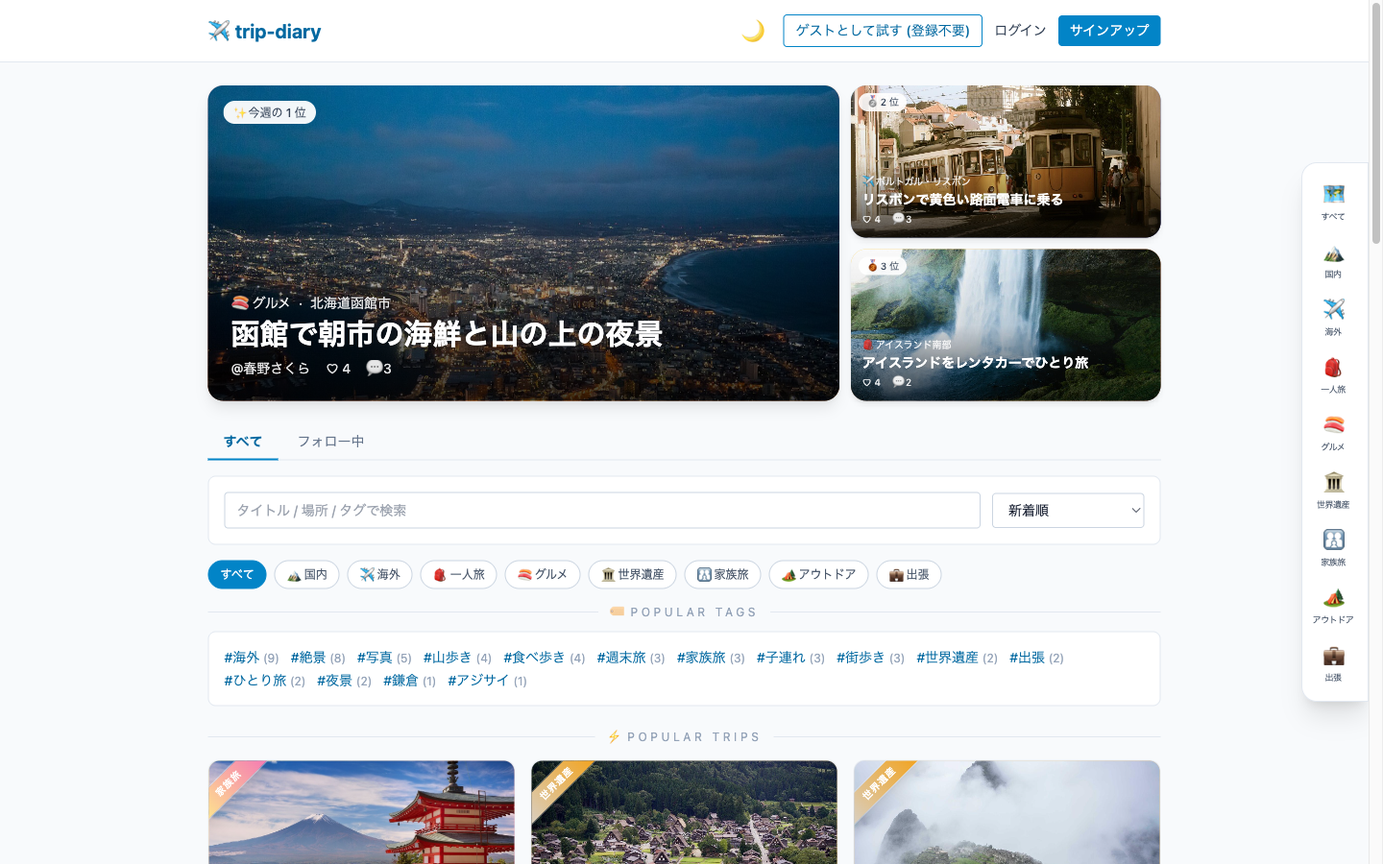
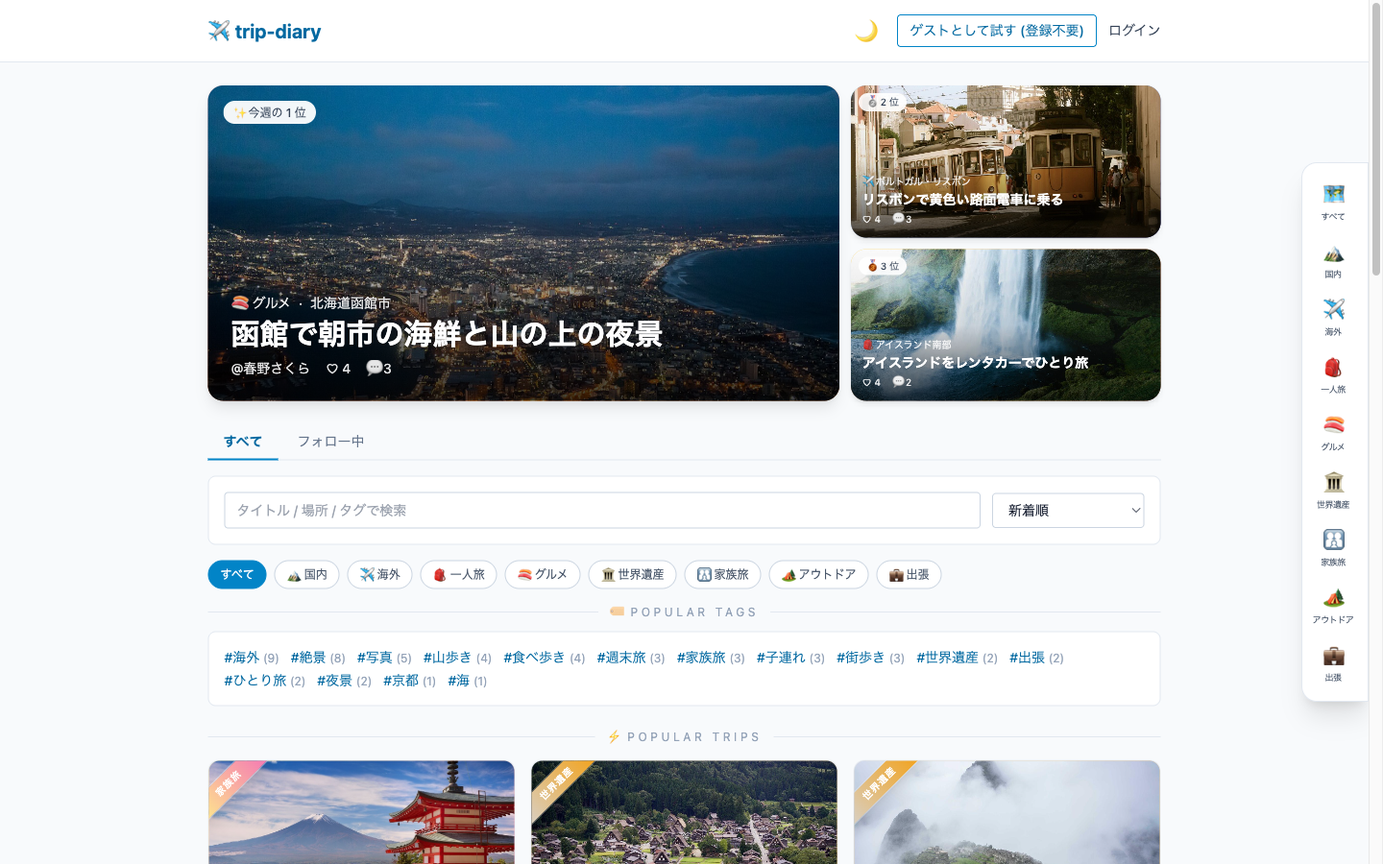
docs: 公開した構成を設計書・README・CLAUDE.md に反映する (#171)
* docs: 計画書に帯域・見回りの間隔・実測を書き、完了判定を埋める

- §8 に Render の帯域の上限と止まる条件、見回りの間隔 (#165) を書いた
- §8-1 に死活監視の定期実行と稼働時間の実測を書いた
- §10 に帯域と稼働時間の実測を足した
- §11 の残りの項目にチェックを入れ、依存の勧告の扱いを更新した

Refs #155

* docs: インフラ構成に帯域・見回りの間隔・環境変数の入れ方を書く

- §0 に Render の帯域の上限と、Solid Queue の見回りの間隔 (#165) を足した
- 環境変数の入れ方と、2026-10-01 に値が壊れてデプロイが失敗した件を書いた
- §0-4 の 0 円の根拠に、帯域を使い切ると止まることを足した

Refs #155

* docs: ログ設計書に帯域・緊急停止・demo:reset の手順を書く

- §7-1 に Uptime の実測を、§7-2・§7-3 に Render の帯域の見方を足した
- §7-4 に帯域が増えすぎたときと、公開をすぐ止めたいとき (Suspend・Rollback) を足した
- §7-6 に公開環境で demo:reset を流すときの注意を書いた

Refs #155

* docs: 要件定義書を公開した構成に合わせ、過去の記録と書き分ける

- §1-5 にデモ URL と月額を書き、§1-5-2 の CI の書き方を今の運用に合わせた
- §3-3・§4-3・§4-4・§5・§10 の AWS と S3 の記述を、2026-05 の記録と
  2026-10〜 の公開環境に書き分けた
- §9 に R-06 (無料枠の上限) を足した

Refs #155

* docs: 機能一覧に公開環境の後継の機能を足す

- F-STORAGE-01 (Cloudinary)・F-DEPLOY-02 (Render と TiDB Cloud Starter)・
  F-UPTIME-01 (死活監視) を足した
- F-S3-01 と F-DEPLOY-01 に後継の番号を書いた

Refs #155

* docs: テスト計画書に公開環境の受け入れ確認と今の件数を書く

- 公開環境への移行で足したテストを反映し、件数を更新した (Minitest 363・Vitest 39)
- 残課題 8 (公開環境での検証) を済みにし、受け入れ確認の結果と
  TiDB 固有の差の見つかり方を書いた

Refs #155

* docs: セキュリティ自己監査に公開環境の点と依存の勧告の手順を書く

- E-M1・E-M2 の見出しを、§5 の表と同じ実装済に直した
- E-H3 に公開環境のチェックリスト (インフラ構成 §0-5) を足した
- 公開環境の運用で見つけた点 (F-PUB-OPS) と、依存パッケージの
  既知の脆弱性への対応の手順 (E-DEP) を足した

Refs #155

* docs: README を公開した構成に合わせる

- デモ URL・インフラの節・テストの件数とカバレッジを今の値にした
- ドキュメントの表・背景・今後の予定を、公開したあとの内容にした

Refs #155

* docs: トップと旅行の詳細のスクリーンショットを公開環境で撮り直す

手元で撮った画像には、公開環境では出さないサインアップのボタンが
写っていた。公開環境の画面に差し替えた。
[…]

Changed region(s): [[0.5312, 0.0, 0.8438, 0.0622], [0.2812, 0.7778, 0.375, 0.8089], [0.9688, 0.28, 1.0, 0.3111]]

diff --git a/docs/ログ・監視・障害対応設計書.md b/docs/ログ・監視・障害対応設計書.md
@@ -8,6 +8,7 @@
 | 0.2 | 2026-09-28 | hideharu-AI (Claude Code 補助) | §1-3 想定読者・監視ツールの判断理由・付録 A の説明を、公開リポジトリの閲覧者向けに直した (#128) |
 | 0.3 | 2026-09-28 | hideharu-AI (Claude Code 補助) | 「本 PR」を実際の PR 番号 (PR #6) にし、最初に出てくる sns-board に「非公開」の断りを付けた (#137) |
 | 0.4 | 2026-10-02 | hideharu-AI (Claude Code 補助) | §7 に公開環境 (Render・TiDB Cloud Starter・Cloudinary) の監視と運用・障害のときの手順を足した。Phase 対応マトリクスに公開デモの行を足し、Phase 3 の記述が過去の AWS 構成の計画であることを明記した (#155) |
+| 0.5 | 2026-10-05 | hideharu-AI (Claude Code 補助) | §7 に Uptime の実測・Render の帯域の見方・帯域が増えすぎたときと公開をすぐ止めたいときの手順・公開環境で `demo:reset` を流すときの注意を足した (#155) |
 
 ---
 
@@ -386,6 +387,7 @@ SLO 違反時の対応は §4 障害対応フローへ。
 | 3 | 月 1 回、手で見る | §7-3 の表 | なし | 月の初め |
 
 - Uptime はベストエフォートとして扱う。GitHub の定期実行は混むと遅れ、負荷が高いと一部のジョブが落とされる (公式ドキュメント: "High load times include the start of every hour." "some queued jobs may be dropped.")。実測の回数は [公開デモ化計画書.md](./公開デモ化計画書.md) §8-1 に書く
+- 実測 (2026-10-02〜10-04 UTC) は 1 日 4〜5 回・失敗 0 件・間隔 3〜7 時間。壊れてから気づくまで、最大 7 時間ほどかかりうる
 - 判定: 1 日 (UTC) に 2 回以上動き、失敗が 0 件なら正常。予定から数時間遅れてもよい。0 回の日があれば、Actions の画面でワークフローが止まっていないか (60 日ルール・手で無効にしていないか) を見る
 - Render が止まっていれば Uptime が起こす (1 回 90 秒まで待ち、4 回まで繰り返す)。起こしたままにするためのものではない
 - TiDB には無料枠の知らせが無い (Spending Limit が $0 だと予算が作られない)。使い切ると新しい接続が拒否されるので、Uptime の trips のステップが失敗して気づく (health は DB を見ない)
@@ -398,7 +400,7 @@ SLO 違反時の対応は §4 障害対応フローへ。
 | ビルドとデプロイ | Render の Events と、デプロイごとのログ | ビルドや起動が失敗しても、前の版が動き続ける |
 | CI・E2E・Uptime | GitHub Actions | 結果はその commit のチェックにも付く (§7-5) |
 | メモリと CPU | Free では見られない (Application Metrics は有料のプランだけ) | 上限は 512 MB・0.15 CPU。手元で同じイメージを 512 MB・0.1 CPU で起動すると、起動 80 秒・202 MiB だった |
-| 外向きの通信量 | Render の Metrics (Outbound) | Free でも見られる |
+| 外向きの通信量 | Render の Metrics (Outbound) と、Billing の Monthly Included Usage (Included Bandwidth) | Free でも見られる。帯域は月 5 GB。Billing の集計は遅れて反映される |
 
 ### §7-3 月 1 回見るもの
 
@@ -406,7 +408,7 @@ SLO 違反時の対応は §4 障害対応フローへ。
 |---|---|---|
 | TiDB の使用量 | My TiDB → trip-diary-prod → Overview の Capacity used this month | 無料枠は月 5,000 万 RU・5 GiB。Spending Limit は $0 のまま変えない |
 | Cloudinary の使用量 | 管理画面の Usage | 月 25 クレジット。使用量の警告の設定と、メールの届く先も確かめる |
-| Render の稼働時間とビルドの分数 | Render の Billing | 月 750 時間 (ワークスペース単位)・ビルドは月 500 分 |
+| Render の稼働時間・ビルドの分数・帯域 | Render の Billing (Monthly Included Usage) | 月 750 時間 (ワークスペース単位)・ビルドは月 500 分・帯域は月 5 GB。2026-10 の実測は 1 日約 8 時間・帯域は 1 日約 22 MB。帯域が 1 日 100 MB を超える勢いなら §7-4 |
 | 定期実行が止まっていないか | GitHub の Actions (Uptime と Performance) | public リポジトリは 60 日間活動が無いと定期実行が止まる。止まっていれば画面から有効にし直す。空の commit で延命しない |
 | 既知の脆弱性 | GitHub の Security (Dependabot) | High と critical が無いこと |
 
@@ -421,6 +423,8 @@ SLO 違反時の対応は §4 障害対応フローへ。
 | チケットの PDF が開けない | Cloudinary の Settings → Security | 無料アカウントは PDF の配信が既定で止まっている。許可が外れていないかを見る |
 | ゲストで入れない | Render の Logs の guest_login | 回数制限は 10 分に 5 回で、記録はプロセスの中にある (Render が再起動すると数え直し)。後片付けで例外が出ていれば、孤立レコードを数えて原因を探す (#160 と同じ型) |
 | 秘密の値を失くした・漏れた | それぞれの管理画面 | `SECRET_KEY_BASE` と `JWT_SECRET` は作り直して Render に入れる (全員がログアウトになる)。TiDB のパスワードと Cloudinary のキーは、それぞれの画面で作り直してから Render の値を替える |
+| 帯域が増えすぎる (Billing の Included Bandwidth が 1 日 100 MB を超える勢い) | Billing の内訳 (Service-Initiated と HTTP Responses)・Metrics の Outbound | Service-Initiated が多いなら、アプリから外への通信 (DB への見回りなど) を疑う。2026-10-04 は Solid Queue の見回りが原因で、間隔を広げて 1 日約 170 MB から約 22 MB にした (#165)。手元で本番用イメージを動かし、何もしない 5 分間の送信量を設定ごとに比べて切り分ける。支払い方法が無いので、使い切ると月末まで止まる。外への通信が異常に多い Free のサービスは Render に止められることもあり、戻すには有料のプランに移る必要がある (公式ドキュメント) |
+| 公開をすぐ止めたい (漏れ・不正な使われ方・帯域の急増) | Render のサービスの画面 | Suspend で止める (訪問者は入れなくなる)。直したら Resume で戻す。受け付けだけを止める Maintenance mode は有料のプランだけ。前の版に戻すだけなら Rollback を使う (Free では直近 2 つ前のデプロイまで。ダッシュボードから戻すと Auto-Deploy が切れるので、直したあとに入れ直す。公式ドキュメント) |
 
 ### §7-5 マージしたのにデプロイされないとき
 
@@ -435,6 +439,11 @@ SLO 違反時の対応は §4 障害対応フローへ。
 - 流す前に、TiDB の許可リストにある手元の IP が、今の IP と同じかを確かめる (家の回線の IP は変わる)
 - 必ず `TZ=UTC` を付ける。`default_timezone` が `:local` のため、Mac (日本時間) からつなぐと 9 時間ずれて読み書きされる。2026-10-01 に `TZ` を付けずに流した `demo:seed` のデータは、画面の日時が 9 時間あとになっている (見た目だけで、動きには影響しない)
 - Render Free には Shell と one-off job が無いので、`demo:seed`・`demo:reset`・調査は手元から流す。手順は [公開デモ化計画書.md](./公開デモ化計画書.md) §6-1
+- 公開環境で `demo:reset` を流すときの注意
+  - デモユーザーを `destroy` するので、デモの旅行に付いたゲストのコメントといいねも一緒に消える
+  - デモの写真 (今は 18 枚) の削除はジョブになって公開環境の DB に入り、Render の中の Solid Queue が実行する。Render が止まっていれば、起きてから Cloudinary から消える (仕組みからの推測で、まだ確かめていない)
+  - 続けて `demo:seed` を流すと、写真を手元から Cloudinary に上げ直す (Cloudinary のクレジットを少し使う)
+  - 流す前と後で、件数と孤立レコードを数え、Cloudinary の件数と合っているかを見る
 - データを消す・変える操作は、本人が承認してから行う。テストデータの後片付けは SQL で直接消さず、`bin/rails runner` のスクリプト経由で行う (`dependent: :destroy` を効かせるため)
 
 ---

diff --git a/docs/セキュリティ自己監査.md b/docs/セキュリティ自己監査.md
@@ -18,6 +18,7 @@
 | 1.2 | 2026-09-30 | hideharu-AI (Claude Code 補助) | §3 に、公開環境の画像の配信 (Cloudinary) の確認結果を追加 (Issue #149) |
 | 1.3 | 2026-10-01 | hideharu-AI (Claude Code 補助) | §3 の F-GUEST-01 の後続の項目だったプロキシの内側での IP 判定 (P0-10) を、対応した内容に書き換えた (Issue #151) |
 | 1.4 | 2026-10-01 | hideharu-AI (Claude Code 補助) | §3 の F-GUEST-01 のプロキシの内側での IP 判定 (P0-10) を、Cloudflare の範囲を信頼する中継に足す方法に書き換えた。先頭を訪問者とみなす判定は、偽ってすり抜けられると分かったため廃止した (Issue #158) |
+| 1.5 | 2026-10-05 | hideharu-AI (Claude Code 補助) | §3 の E-M1・E-M2 の見出しを、§5 の表と同じ「実装済」に直した。E-H3 に今の公開環境のチェックリスト (インフラ構成.md §0-5) を足した。公開環境の運用で見つけた点 (F-PUB-OPS) と、依存パッケージの既知の脆弱性への対応の手順 (E-DEP) を足した (#155) |
 
 ---
 
@@ -102,6 +103,7 @@
 - **PR #8 での対応**:
   - `.env.example` の該当行直上にコメント追加
   - README に本番デプロイ前チェックリスト 4 項目を追加 (2026-09-28 に [インフラ構成.md](./インフラ構成.md) §5-1 へ移した)
+- **公開環境 (2026-10〜)**: Render には `RAILS_ENV` を入れず、イメージの既定 (production) で動かす。デプロイや設定を変える前のチェックリストは [インフラ構成.md](./インフラ構成.md) §0-5
 - **デモデータ (Issue #117)**: 公開環境にも入れるデモデータ (`demo:seed` / `demo:reset`) は、production では `DEMO_SEED_CONFIRM=1` が無いと `DemoSeeder::NotConfirmed` で止まる。`demo:reset` もデモユーザーを消す前に止まる。デモユーザーのパスワードはランダム値を作って捨てるため、誰もログインできない
 
 ### E-H4: 公開 API による他人のメールアドレスの返却 — 🔴 **要修正 (Issue #107 で fix)**
@@ -140,15 +142,32 @@
 - **判断**: 記録のみ。URL は推測できず、知っているのはその画像を見た人 (ゲストの画像なら本人だけ) に限られるため。削除のときに CDN も消すかは、公開後に別の Issue で判断する
 - **無料プランの上限 (2026-09-30 に管理画面で確認)**: 1 ファイル 10 MB。アプリの上限 (写真 5 MB・アバター 2 MB・チケット 10 MB) はこの中に収まり、10 MB ちょうどの PDF を保存・配信できた
 
-### E-M1: login rate limit — ❌ **未実装 (Phase 2 残課題)**
+### F-PUB-OPS: 公開環境の運用で見つけた点 (2026-10) — 🟡 **記録のみ (#155)**
 
-- 現状: rack-attack なし。ブルートフォース耐性ゼロ
-- Phase 2: rack-attack 導入 + Issue 起票 (§5 残課題)
+- **画像の置き場の API キーの役割**: Cloudinary の無料プランで選べる役割は Master Admin と Media Library User の 2 つだけで、公開環境のキーは Master Admin にした。公開環境専用のキーにし、値は Render の画面にだけ置く。漏れたら管理画面で作り直す ([ログ・監視・障害対応設計書.md](./ログ・監視・障害対応設計書.md) §7-4)
+- **ログに訪問者の IP が残る**: Render の Logs (STDOUT) に訪問者の IP が出る。公開リポジトリや Issue に貼らない
+- **ゲストが付けたタグが残る**: ゲストを消しても、ゲストが付けたタグはタグの表に残る (旅行の無いタグを消す処理が無い。2026-10-04 時点で 1 件)。`/api/v1/tags/:name` は、タグがあれば旅行 0 件で `200`、無ければ `404` を返すので、そのタグ名がだれかに使われたことは分かる。旅行の中身や、だれが付けたかは分からない
+- **判断**: いずれも記録のみ。タグの後片付けは、公開後に別の Issue で扱う
 
-### E-M2: JWT blacklist — ❌ **未実装 (Phase 2 残課題)**
+### E-DEP: 依存パッケージの既知の脆弱性 (2026-10) — 🟡 **2 件を理由つきで許可 (#163・#167)**
 
-- 現状: `auth_controller.rb:24-27` logout は cookie 削除のみ
-- Phase 2: `JwtDenylist` テーブル + jti 検証 (Devise-JWT 参考)
+- **手順**: CI の security が新しい勧告で失敗したら、修正版があるかと、公開環境のイメージに入るかを確かめる。修正版があれば上げる。修正版が無く、イメージにも入らないものだけを、`ci.yml` の npm audit の `ALLOW` に勧告の URL で 1 つ足す (Issue → PR)。許可した勧告が audit に出なくなると、CI が警告を出すので、そのときに外す
+- **公開環境のイメージ**: 画面のビルド結果 (`_nuxt` と `index.html`) だけを取り込み、Node の依存は入らない
+- **許可している 2 件 (どちらも high・修正版なし)**
+  - node-forge (GHSA-86w9-cpqp-85rv): nuxt → @nuxt/cli → listhen → node-forge。開発サーバーだけが読み込む (#163・PR #164)
+  - braces (GHSA-vfj7-8cjw-p6xm): @nuxtjs/tailwindcss → tailwindcss → chokidar・micromatch → braces。Tailwind のビルドとファイルの見張りだけが使う (#167・PR #168)
+- **Dependabot alerts**: CI の許可とは別に、画面の alerts は Dismiss しない限り開いたままになる。2 件は同じ理由を書いて Dismiss した (理由は Risk is tolerable to this project)。low の esbuild はそのまま
+
+### E-M1: login rate limit — ✅ **実装済 (PR #36)**
+
+- 当初 (2026-05-17): rack-attack なし。ブルートフォース耐性ゼロ
+- 対応: rack-attack で、login を IP ごとに 1 分 5 回・signup を 1 分 3 回に制限した (PR #36)。公開環境では、ゲストログインも 10 分 5 回に制限し、プロキシの内側でも訪問者の IP で数える (F-GUEST-01 の項)
+
+### E-M2: JWT blacklist — ✅ **実装済 (PR #38)**
+
+- 当初 (2026-05-17): `auth_controller.rb` の logout は cookie 削除のみ
+- 対応: ログアウトのときにトークンの `jti` を `revoked_jtis` に記録し、以後の認証で拒否する (PR #38)
+- 残る点 (2026-10・記録のみ): 期限切れの記録は、次にだれかがログアウトしたときにだけ消える。公開環境のゲストはログアウトしないことが多く、記録は少しずつ増える (2026-10-04 時点で 1 件)。定期的に消す処理は、公開後に別の Issue で扱う
 
 ### E-M6: 横展開チェック (comment / like 削除の冪等性・認可) — ✅ **OK**
 
@@ -195,7 +214,7 @@
 |---|---|---|---|
 | **E-H1** | High | `auth_controller.rb` signup を `{ error: GENERIC_SIGNUP_ERROR }` に統一 | `auth_controller_test.rb` の field 漏洩テスト |
 | **E-H2** | High | `auth_controller.rb` login + `DUMMY_DIGEST` 定数 | 同上 timing test |
-| **E-H3** | High (運用) | `.env.example` + [インフラ構成.md](./インフラ構成.md) §5-1 本番デプロイ前チェックリスト | — |
+| **E-H3** | High (運用) | `.env.example` + [インフラ構成.md](./インフラ構成.md) §5-1 本番デプロイ前チェックリスト (2026-10〜 の公開環境は §0-5) | — |
 | **E-Proc** | Process | `.github/pull_request_template.md` に 3 行追加 | — |
 | **E-M3** | Medium | `trips_controller.rb` の `trip_detail` で `planned_count` / `planned_done_count` を `is_owner ? ... : nil` でラップ + frontend 詳細ページの「計画達成度」セクションを `v-if="isOwner()"` でガード (Issue #45 / F-LEAK-01) | `trips_controller_test.rb` 3 ケース (他人視点 / 所有者回帰 / 未ログイン) |
 | **E-H4** | High | trips / comments / tags / favorites / follows の 5 コントローラーの payload から `email` を削除 (Issue #107) | `privacy_test.rb` (未ログイン 4 API / ログイン中のお気に入り / `/me` の回帰) |

diff --git a/docs/インフラ構成.md b/docs/インフラ構成.md
@@ -10,6 +10,7 @@
 | 0.4 | 2026-09-28 | hideharu-AI (Claude Code 補助) | §3 コスト管理の前提と撤収の書き方を直した (#128) |
 | 0.5 | 2026-09-28 | hideharu-AI (Claude Code 補助) | sns-board に「非公開」の断りを付け、その中のファイル名を一般的な書き方にした (#137) |
 | 0.6 | 2026-10-02 | hideharu-AI (Claude Code 補助) | §0 に今の公開構成 (Render・TiDB Cloud Starter・Cloudinary) とチェックリストを足した。§2 の見出しを過去の本番構成に直し、§5-1 から §0-5 を案内した (#155) |
+| 0.7 | 2026-10-05 | hideharu-AI (Claude Code 補助) | §0 に Render の帯域の上限・Solid Queue の見回りの間隔 (#165)・環境変数の入れ方と 2026-10-01 の失敗を足した (#155) |
 
 ---
 
@@ -39,7 +40,7 @@ Render の Web Service (Docker・Singapore・Free)
       └ Puma (ポート 3001)
           ├ Rails API (/api/v1/*) とヘルスチェック (/up)
           ├ ビルド済みの画面 (nuxt generate の結果を Rails が返す)
-          └ Solid Queue (SOLID_QUEUE_IN_PUMA=1 で Puma の中で動く)
+          └ Solid Queue (SOLID_QUEUE_IN_PUMA=1 で Puma の中で動く。見回りは Worker 2 秒・Dispatcher 5 秒)
   │                                     │
   │ MySQL プロトコル + TLS               │ HTTPS
   ▼                                     ▼
@@ -61,12 +62,14 @@ GitHub Actions
 |---|---|---|
 | Render | プランと地域 | Free・Singapore (アジアで選べる地域はここだけ) |
 | Render | 資源 | 512 MB・0.15 CPU。15 分アクセスが無いと止まり、次のアクセスで約 1 分かけて起きる |
+| Render | 帯域 | 外向きはワークスペース全体で月 5 GB (画面への応答と、アプリから外への通信の両方を数える)。Billing → Monthly Included Usage で見る |
 | Render | ビルド | Dockerfile Path は `backend/Dockerfile`、文脈 (Docker build context directory) はリポジトリの直下 `.` |
 | Render | ヘルスチェック | `/up` (2xx か 3xx を 5 秒以内に返せば正常) |
 | Render | Auto-Deploy | After CI Checks Pass |
 | Render | Build Filters | 含める: `backend/**`・`frontend/**`・`.dockerignore` / 除く: `backend/test/**`・`frontend/tests/**`・`**/*.md` (docs とテストだけの変更ではビルドしない) |
 | Render | 環境変数 (11 個) | `DB_HOST`・`MYSQL_PORT`・`MYSQL_USER`・`MYSQL_PASSWORD`・`MYSQL_DATABASE`・`MYSQL_SSL_MODE` (`verify_identity`)・`SIGNUP_ENABLED` (`false`)・`SOLID_QUEUE_IN_PUMA` (`1`)・`SECRET_KEY_BASE`・`JWT_SECRET`・`CLOUDINARY_URL`。値は Render の画面にだけ置く |
 | Render | 入れない環境変数 | `WEB_CONCURRENCY` (Render が既定で 1 を入れる。2 以上にすると回数制限の記録が worker ごとに分かれ、メモリも足りない)・`RAILS_MASTER_KEY` (credentials を使わない)・`RAILS_ENV` (イメージの既定が production)・`S3_*`・`CORS_ORIGINS` |
+| Render | ジョブの見回り | `config/queue.yml` の production だけ、Worker 2 秒・Dispatcher 5 秒 (帯域を抑えるため。#165)。手元と CI は 0.1 秒・1 秒のまま。production に `workers:` を書くと一覧全体が置き換わるので、キューやスレッドの数も書き直す |
 | TiDB Cloud | プランと地域 | Starter・Singapore (Render と同じ地域)・Spending Limit は $0 |
 | TiDB Cloud | 接続 | TLS が必須 (`MYSQL_SSL_MODE=verify_identity`)・ポート 4000 |
 | TiDB Cloud | 許可リスト | Render の送信元の範囲 2 つ (`74.220.52.0/24`・`74.220.60.0/24`。Render の Connect → Outbound に出る) と、`demo:seed` などを流す手元の IP だけ。全許可の規則は消した。規則の名前に使えるのは英数字と `_` だけ |
@@ -79,6 +82,10 @@ GitHub Actions
 
 - Render の送信元の範囲は、同じ地域の Render の全サービスで共通。許可リストだけではこのアプリからの接続に絞れないので、守りの中心は TLS (`verify_identity`) と強いパスワードにする
 - TiDB の無料のバックアップ (毎日・保持 1 日・新しいインスタンスへの復元だけ) には頼らない。デモは `demo:reset` と `demo:seed` で作り直せる。ゲストのデータは 24 時間で消えるので守る対象にしない
+- 環境変数の入れ方 (2026-10-01): DB の接続情報と秘密でない値は、手元の git の対象外のファイルから、Render の Environment の「Add from .env」にまとめて貼る。`SECRET_KEY_BASE` と `JWT_SECRET` は `openssl rand -hex 64` で作り、1 つずつ貼る。値を画面に出したままスクリーンショットを撮らない
+  - コピーしてから貼るまでに別の文字をコピーすると、クリップボードの中身が入れ替わる。2026-10-01 に `CLOUDINARY_URL` がこれで壊れ、起動時に「Invalid CLOUDINARY_URL scheme」で落ちて、デプロイが 2 回失敗した (前の版は動き続けた)
+  - 同じ日に、Cloudinary の管理画面で古いキーの行をコピーして保存しかけた。`demo:seed` の前に、キーの末尾だけを表示して公開環境専用のキーかを確かめて気づいた
+  - 貼ったら保存し、Events で Deploy started から live まで進むかを見る。失敗したらデプロイのログでエラーの種類を見て、値を貼り直す
 
 ### 0-3. デプロイの流れ
 
@@ -106,7 +113,7 @@ Live (ビルドや起動が失敗したときは、前の版が動き続ける)
 
 | サービス | 根拠 |
 |---|---|
-| Render | Free で、支払い方法を登録していない。無料枠 (月 750 時間はワークスペース単位・ビルドは月 500 分) を超えると、請求ではなくサービスやビルドが止まる |
+| Render | Free で、支払い方法を登録していない。無料枠 (月 750 時間はワークスペース単位・ビルドは月 500 分・帯域は月 5 GB) を超えると、請求ではなくサービスやビルドが止まる。帯域を使い切ると、月末までサービスが止まる |
 | TiDB Cloud | Starter で Spending Limit が $0、カードも登録していない。無料枠 (月 5 GiB・5,000 万 RU) を使い切ると、請求ではなく新しい接続を拒否する。予算の知らせ (Budgets) は Spending Limit が 0 より大きいときだけ作られるので、知らせのメールは来ない (使用量は手で見る) |
 | Cloudinary | Free で、カードは不要。月 25 クレジット |
 | GitHub Actions | 公開リポジトリなので無料 |

diff --git a/README.md b/README.md
@@ -12,7 +12,7 @@ Ruby on Rails 8.1 (API) + Nuxt 4 + MySQL 8 で作っています。
 
 | 項目 | 内容 |
 |---|---|
-| デモ URL | 公開準備中 |
+| デモ URL | https://trip-diary-wpaf.onrender.com |
 | 試し方 | 画面右上の「ゲストとして試す」を押すだけで、登録なしで操作できます |
 | 初回の表示 | 無料のサーバーを使っているため、しばらくアクセスが無いと停止します。最初の表示に 1 分ほどかかることがあります |
 
@@ -86,13 +86,13 @@ Ruby on Rails 8.1 (API) + Nuxt 4 + MySQL 8 で作っています。
 
 | 種別 | 件数 | カバレッジ |
 |---|---|---|
-| Backend (Minitest) | 319 件 | Line 93.86% / Branch 79.38% |
-| Frontend (Vitest) | 34 件 | 全体 Line 6.83% / composables Line 59.02% |
+| Backend (Minitest) | 363 件 | Line 94.78% / Branch 79.64% |
+| Frontend (Vitest) | 39 件 | 全体 Line 7.26% / composables Line 62.01% |
 | E2E (Playwright) | smoke 1 件 | — |
 | 性能 (k6) | シナリオ 6 種 | — |
 
-- 数字は 2026-09-28 時点の実測です
-- Frontend の単体テストは composables とストアが対象です。画面の部品には単体テストが無く、E2E と手動の確認手順 ([docs/テスト計画書.md](docs/テスト計画書.md) §8) で確かめています
+- 数字は 2026-10-05 時点の実測です
+- Frontend の単体テストは composables とストアのほか、トップの画面と設定の静的な確認 (見出し・入力欄の名前・OGP) が対象です。画面の部品には単体テストが無く、E2E と手動の確認手順 ([docs/テスト計画書.md](docs/テスト計画書.md) §8) で確かめています
 - CI では rubocop・ESLint・Minitest・Vitest・Nuxt のビルド・brakeman・bundle-audit・npm audit をすべての PR で実行しています
 - セキュリティは [docs/セキュリティ自己監査.md](docs/セキュリティ自己監査.md) の観点で PR ごとに確認しています
 
@@ -100,11 +100,12 @@ Ruby on Rails 8.1 (API) + Nuxt 4 + MySQL 8 で作っています。
 
 ## インフラ
 
-- **現行**: 無料で公開し続けられる構成へ移行中です (Render・TiDB Cloud・Cloudinary を予定)
+- **現行 (2026-10〜)**: Render (Docker・Free) で Rails とビルド済みの画面を同じオリジンから配り、DB は TiDB Cloud Starter、画像は Cloudinary に置いています。月額 0 円です
+- **監視**: GitHub Actions が 1 時間ごと (ベストエフォート) に死活監視をし、失敗したらメールが届きます
 - **過去の本番構成 (2026-05)**: AWS の ECS Fargate + RDS + ALB + CloudFront + S3 を Terraform で構築し、公開していました
-- **移行の理由**: 常時公開すると月に約 30 ドルかかるため、公開デモを月額 0 円で続けられる構成に切り替えます
+- **移行の理由**: 常時公開すると月に約 30 ドルかかるため、公開デモを月額 0 円で続けられる構成に切り替えました
 
-過去の構成と運用手順は [docs/インフラ構成.md](docs/インフラ構成.md) に残しています。Terraform のコードは [infra/](infra/) にあります。
+今の構成は [docs/インフラ構成.md](docs/インフラ構成.md) §0 に、過去の構成と運用手順は同じ文書の §2〜§5 にあります。Terraform のコードは [infra/](infra/) にあります。
 
 ---
 
@@ -181,24 +182,24 @@ E2E と性能テストの手順は [e2e/](e2e/) と [performance-tests/README.md
 | [画面設計書](docs/画面設計書.md) | 画面一覧・遷移 |
 | [ER 図](docs/ER図.md) | テーブル定義・インデックス |
 | [技術スタック](docs/技術スタック.md) | 採用技術と理由 |
-| [インフラ構成](docs/インフラ構成.md) | ローカル構成・過去の AWS 構成と運用手順 |
-| [ログ・監視・障害対応設計書](docs/ログ・監視・障害対応設計書.md) | ログ・SLO・障害対応 |
+| [インフラ構成](docs/インフラ構成.md) | 今の公開構成・ローカル構成・過去の AWS 構成と運用手順 |
+| [ログ・監視・障害対応設計書](docs/ログ・監視・障害対応設計書.md) | ログ・SLO・障害対応・公開環境の監視と運用 |
 | [テスト計画書](docs/テスト計画書.md) | テストの方針・手動の確認手順 |
 | [セキュリティ自己監査](docs/セキュリティ自己監査.md) | 観点と監査結果 |
-| [公開デモ化計画書](docs/公開デモ化計画書.md) | 公開デモにするための課題と順番 |
+| [公開デモ化計画書](docs/公開デモ化計画書.md) | 公開デモにするための課題・構成の選び方・完了判定 |
 | [学習ロードマップ](docs/学習ロードマップ.md) | 身につけたいことの段階 |
 
 ---
 
 ## 背景
 
-スクールの課題として開発を始め、その後、誰でも試せる公開デモとして改修しています。
+スクールの課題として開発を始め、その後、誰でも試せる公開デモとして改修し、2026-10 に公開しました。
 
 ---
 
 ## 今後の予定 / ライセンス
 
-- 無料構成での公開と、死活監視の追加 ([docs/公開デモ化計画書.md](docs/公開デモ化計画書.md) §9)
+- 公開後に扱うもの: ゲストが付けたタグの後片付け・トークンの失効リストの定期削除 ([docs/セキュリティ自己監査.md](docs/セキュリティ自己監査.md) の F-PUB-OPS・E-M2)
 - 地図・統計・PDF 出力などは [docs/機能一覧.md](docs/機能一覧.md) の Phase 4 にまとめています
 
 ライセンス: [MIT](LICENSE)
@@ -214,3 +215,4 @@ E2E と性能テストの手順は [e2e/](e2e/) と [performance-tests/README.md
 | 2026-05-17 | Phase 1 MVP 完成に伴う初版 (機能/技術/起動手順/curl/シードユーザー) |
 | 2026-05-17 | Phase 2 全 6 PR + CI 完了に伴う全面改訂。提出物 (Deliverables) 表 / CI バッジ / LICENSE / 差別化ポイント / 開発ワークフロー / AI 利用方針 を追加 (PR #30) |
 | 2026-09-28 | 初めて見る人向けの構成に作り直した。AWS の運用手順は docs/インフラ構成.md へ移した (#126) |
+| 2026-10-05 | 公開した構成に合わせ、デモ URL・インフラ・テストの件数を更新し、トップと旅行の詳細のスクリーンショットを公開環境で撮り直した (#155) |

diff --git a/docs/機能一覧.md b/docs/機能一覧.md
@@ -19,6 +19,7 @@
 | 1.2 | 2026-09-28 | hideharu-AI (Claude Code 補助) | F-GUEST-01 の画面 (ログイン画面とヘッダーのボタン・ゲストモードの表示・公開範囲の注記) と、F-AUTH-01 の画面側の停止を追記 (Issue #122) |
 | 1.3 | 2026-09-28 | hideharu-AI (Claude Code 補助) | F-DEPLOY-01 の稼働状態と撤収済みの公開 URL を、撤収済みである記述に直した。Phase 3 の範囲を決めた経緯を「初回リリース」の経緯として書き直した (#128) |
 | 1.4 | 2026-09-28 | hideharu-AI (Claude Code 補助) | 最初に出てくる sns-board に「非公開」の断りを付けた (#137) |
+| 1.5 | 2026-10-05 | hideharu-AI (Claude Code 補助) | 公開環境の後継の機能として F-STORAGE-01 (Cloudinary)・F-DEPLOY-02 (Render と TiDB Cloud Starter)・F-UPTIME-01 (死活監視) を足し、F-S3-01 と F-DEPLOY-01 に後継を書いた (#155) |
 
 ---
 
@@ -88,8 +89,11 @@
 | F-NOTIF-02 | 通知既読管理 | 個別既読 / 一括既読 / 未読バッジ表示 | ログインユーザー | 中 | 3 | S-11 / ヘッダー |
 | F-EXPORT-01 | PDF エクスポート (旅行記録) | 1 旅行記録を A4 PDF 化 (タイトル / 期間 / 出来事 / 画像) | 投稿者本人 | 中 | 4 ⏸ | S-04 |
 | F-EXPORT-02 | PDF エクスポート (予算分析) | 予算-実績グラフ込み PDF | 投稿者本人 | 中 | 4 ⏸ | S-14 |
-| F-S3-01 | S3 画像保存 ✅ | ActiveStorage の保存先を Disk → S3 へ切替 (PR #56) | システム | 中 | 3 | - |
-| F-DEPLOY-01 | AWS 本番デプロイ ✅ | ECS Fargate + RDS + ALB + CloudFront + S3 + ECR + SSM (Terraform / PR #58 / 2026-05 に公開し、2026-05-19 に撤収) | システム | 高 | 3 | - |
+| F-S3-01 | S3 画像保存 ✅ | ActiveStorage の保存先を Disk → S3 へ切替 (PR #56)。2026-05 の本番で使った。後継は F-STORAGE-01 | システム | 中 | 3 | - |
+| F-DEPLOY-01 | AWS 本番デプロイ ✅ | ECS Fargate + RDS + ALB + CloudFront + S3 + ECR + SSM (Terraform / PR #58 / 2026-05 に公開し、2026-05-19 に撤収)。後継は F-DEPLOY-02 | システム | 高 | 3 | - |
+| F-STORAGE-01 | 公開環境の画像保存 (Cloudinary) ✅ | 公開環境の ActiveStorage の保存先を Cloudinary Free にした (`storage.yml` の `cloudinary`・`folder: trip-diary`)。手元とテストは Disk のまま。旅行や期限切れのゲストを消すと、ジョブで Cloudinary からも消す (PR #150) | システム | 高 | 4 (公開デモ) | - |
+| F-DEPLOY-02 | 公開環境 (Render・TiDB Cloud Starter) ✅ | Render Free の Docker で Rails とビルド済みの画面を同じオリジンから配り、DB は TiDB Cloud Starter (TLS 必須)。CI が通った commit だけを自動で公開する。月額 0 円 (PR #144・#147・#148・#152・#157・#159・#166。構成は インフラ構成.md §0) | システム | 高 | 4 (公開デモ) | - |
+| F-UPTIME-01 | 死活監視 ✅ | GitHub Actions が毎時 (ベストエフォート) `/api/v1/health` と `/api/v1/trips` を見て、失敗したらメールで知らせる (PR #154。実測は 1 日 4〜5 回) | システム | 中 | 4 (公開デモ) | - |
 | F-E2E-01 | E2E (Playwright) 基盤 + smoke ✅ | sns-board (非公開) と同じ構成 / signup → trip → コメント → いいね → ログアウト (PR #62 + PR #83 で CI 化) | システム | 高 | 3 | - |
 | F-PERF-01 | 性能テスト (k6) 基盤 ✅ | Layer A 構成 (smoke / timeline / trip_create / trip_detail / like / 30min soak) / sns-board 踏襲 (PR #71 + PR #93) | システム | 中 | 3 | - |
 | F-DM-01 | DM 送受信 | 1:1 ダイレクトメッセージ (相互フォロー必須) | ログインユーザー | 低 | 4 | S-16 |
@@ -156,8 +160,8 @@ v0.3 までは Phase 3 に「地図 / 通知 / PDF / 統計 / アルバム / PWA
 
 | ID | 機能 | 状態 | 関連 PR |
 |---|---|---|---|
-| F-S3-01 | S3 画像保存 | ✅ 実装済 | [#56](https://github.com/80-cloud/trip-diary/pull/56) |
-| F-DEPLOY-01 | AWS 本番デプロイ (ECS Fargate + RDS + ALB + CloudFront + S3 + ECR + SSM) | ✅ 実装済 (2026-05 に公開し、2026-05-19 に撤収) | [#58](https://github.com/80-cloud/trip-diary/pull/58) / [#60](https://github.com/80-cloud/trip-diary/pull/60) / [#84](https://github.com/80-cloud/trip-diary/pull/84) (Thruster port 修正) |
+| F-S3-01 | S3 画像保存 | ✅ 実装済 (2026-05 の本番。後継は F-STORAGE-01) | [#56](https://github.com/80-cloud/trip-diary/pull/56) |
+| F-DEPLOY-01 | AWS 本番デプロイ (ECS Fargate + RDS + ALB + CloudFront + S3 + ECR + SSM) | ✅ 実装済 (2026-05 に公開し、2026-05-19 に撤収。後継は F-DEPLOY-02) | [#58](https://github.com/80-cloud/trip-diary/pull/58) / [#60](https://github.com/80-cloud/trip-diary/pull/60) / [#84](https://github.com/80-cloud/trip-diary/pull/84) (Thruster port 修正) |
 | F-E2E-01 | E2E (Playwright) 基盤 + smoke spec | ✅ CI GREEN (Issue #68 local Mac hydrate のみ Open / CI Ubuntu / 本番ブラウザは GREEN) | [#62](https://github.com/80-cloud/trip-diary/pull/62) / [#64](https://github.com/80-cloud/trip-diary/pull/64) / [#83](https://github.com/80-cloud/trip-diary/pull/83) (CI 化) |
 | F-PERF-01 | 性能テスト (k6) 基盤 | ✅ 実装済 (Layer A 6 scenarios + 30min soak) | [#71](https://github.com/80-cloud/trip-diary/pull/71) / [#93](https://github.com/80-cloud/trip-diary/pull/93) |
 | F-NOTIF-01 | 通知センター (コメント / いいね / フォロー受信) | ✅ 実装済 (verb 型 + 未読バッジ / N-1〜N-9 動作実証済) | [#73](https://github.com/80-cloud/trip-diary/pull/73) / [#74](https://github.com/80-cloud/trip-diary/pull/74) |

diff --git a/CLAUDE.md b/CLAUDE.md
@@ -54,7 +54,7 @@
 | バックエンド | Ruby 3.4.9 + Ruby on Rails 8.1 (API モード) |
 | フロントエンド | Nuxt 4 + Vue 3 + Tailwind CSS (**TypeScript 不採用 = 純 JS**) |
 | データベース | MySQL 8.x (Docker コンテナ) |
-| 公開環境 | 2026-05 に AWS (ECS Fargate + RDS) で公開し、同月に撤収した。無料構成へ移す準備中 ([docs/公開デモ化計画書.md](docs/公開デモ化計画書.md)) |
+| 公開環境 | https://trip-diary-wpaf.onrender.com (2026-10〜。Render・TiDB Cloud Starter・Cloudinary の無料構成で公開中。構成は [docs/インフラ構成.md](docs/インフラ構成.md) §0、運用は [docs/ログ・監視・障害対応設計書.md](docs/ログ・監視・障害対応設計書.md) §7)。2026-05 に AWS (ECS Fargate + RDS) で公開し、同月に撤収した |
 | 作業ディレクトリ | /Users/macmini/Desktop/Cursor/TripDiary |
 | 学習姿勢 | 「習う → 慣れる → マスター」 ([docs/学習ロードマップ.md](docs/学習ロードマップ.md)) |
 
